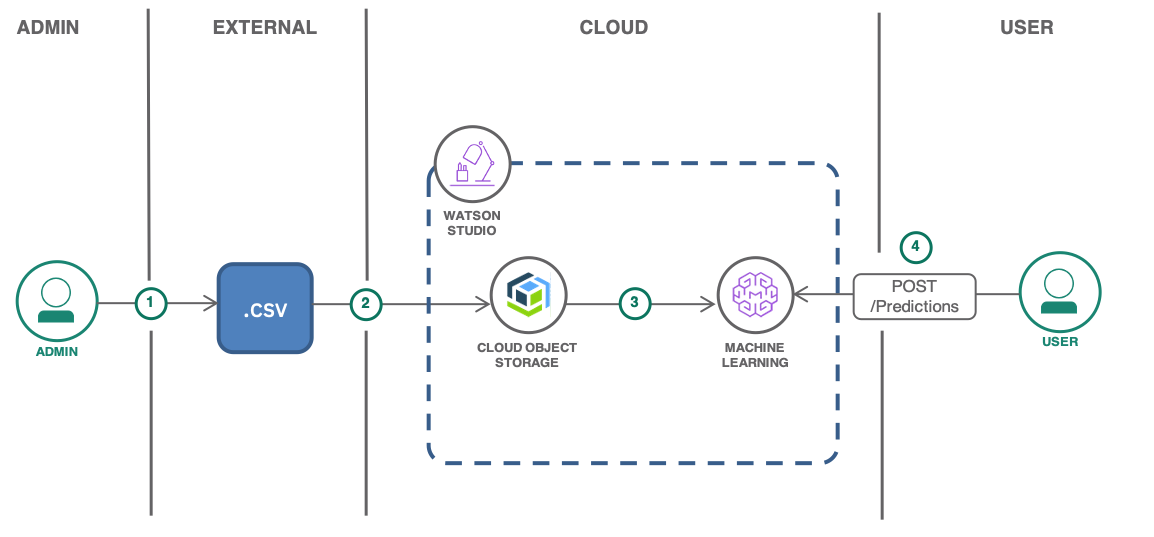
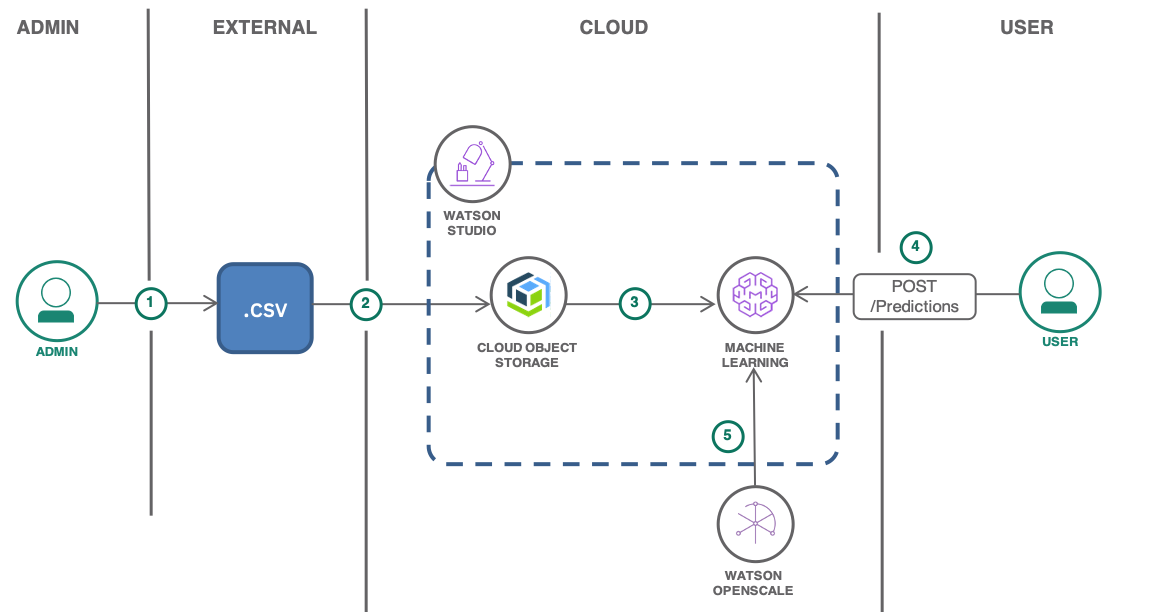
More updates

diff --git a/create-deploy-retrain-machine-learning-model.md b/create-deploy-retrain-machine-learning-model.md
@@ -17,7 +17,7 @@ lasttested: "2020-04-21"
 {:tip: .tip}
 {:pre: .pre}
 
-# Build, deploy and test a predictive machine learning model
+# Build, deploy, test, retrain and monitor a machine learning model
 {: #create-deploy-retrain-machine-learning-model}
 This tutorial walks you through the process of building a predictive machine learning model, deploying the generated model as an API to be used in applications and testing the model.Also, monitor the deployed model and retrain the model with feedback data. All of this happening in an integrated and unified self-service experience on {{site.data.keyword.Bluemix_notm}}.
 {:shortdesc}
@@ -46,7 +46,7 @@ This tutorial uses the following runtimes and services:
 * [{{site.data.keyword.DSX_short}}](https://{DomainName}/catalog/services/data-science-experience)
 * [{{site.data.keyword.cos_full_notm}}](https://{DomainName}/catalog/infrastructure/cloud-object-storage)
 * [{{site.data.keyword.pm_full}}](https://{DomainName}/catalog/services/machine-learning)
-* [{{site.data.keyword.aios_full}} service](https://{DomainName}/catalog/services/watson-openscale)
+* [{{site.data.keyword.aios_full}}](https://{DomainName}/catalog/services/watson-openscale)
 
 ## Architecture
 {: #architecture}
@@ -56,7 +56,7 @@ This tutorial uses the following runtimes and services:
 2. The uploaded CSV file is stored in {{site.data.keyword.cos_full_notm}} service as a dataset.
 3. The dataset is then used to build and deploy a machine learning model. The deployed model is exposed as an API (scoring-endpoint).
 4. The user makes an API call to predict the outcome with the test data.
-5. The deployed machine learning model is monitored for quality, accuracy and other key parameters.
+5. The deployed machine learning model is monitored for quality, accuracy and other key parameters with the test data.
 
 ## Import data to a project
 {: #import_data_project}
@@ -87,7 +87,7 @@ You can create a project to add data and open a data asset in the data refiner f
 ### Import data
 {: #import_data}
 
-As mentioned earlier, you will be using the **Iris data set**. The Iris dataset was used in R.A. Fisher's classic 1936 paper, [The Use of Multiple Measurements in Taxonomic Problems](http://rcs.chemometrics.ru/Tutorials/classification/Fisher.pdf), and can also be found on the [UCI Machine Learning Repository](http://archive.ics.uci.edu/ml/). This small dataset is often used for testing out machine learning algorithms and visualizations. The aim is to classify Iris flowers among three species (Setosa, Versicolor or Virginica) from measurements of length and width of sepals and petals. The iris data set contains 3 classes of 50 instances each, where each class refers to a type of iris plant.
+As mentioned earlier, you will be using the **Iris data set**. The Iris dataset was used in R.A. Fisher's classic 1936 paper, [The Use of Multiple Measurements in Taxonomic Problems](http://rcs.chemometrics.ru/Tutorials/classification/Fisher.pdf), and can also be found on the [UCI {{site.data.keyword.pm_short}} Repository](http://archive.ics.uci.edu/ml/). This small dataset is often used for testing out machine learning algorithms and visualizations. The aim is to classify Iris flowers among three species (Setosa, Versicolor or Virginica) from measurements of length and width of sepals and petals. The iris data set contains 3 classes of 50 instances each, where each class refers to a type of iris plant.
 ![](images/solution22-build-machine-learning-model/iris_machinelearning.png)
 
 **Download** [iris_initial.csv](https://ibm.box.com/shared/static/nnxx7ozfvpdkjv17x4katwu385cm6k5d.csv) which consists of 40 instances of each species.
@@ -100,7 +100,7 @@ As mentioned earlier, you will be using the **Iris data set**. The Iris dataset 
 {:#associate_services}
 
 1. In the top navigation menu, click on `iris-project`, click on **Settings** in the top bar and scroll to **Associated Services** section.
-2. Click **Add Service** and choose **Watson**.
+2. Click **Add Service** and choose **{{site.data.keyword.watson}}**.
 3. Click **Add** on **{{site.data.keyword.pm_short}}** tile.
 4. If you have an existing **{{site.data.keyword.pm_short}}** service instance, select it otherwise continue with the following steps to create a new instance.
    1. Choose the **Lite** plan and click **Create**.
@@ -149,7 +149,7 @@ In this section, you will deploy the saved model and expose the deployed model a
 1. Under the created model, click on **Deployments** and then click **Add Deployment**.
 1. Add a **name** -`iris_deployment`, choose **Web Service** as your deployment type and add an optional description.
 2. Click **Save**. Once the status changes to **Ready** (You may have to refresh the page), click on the **name** of the new web service. Under **Implementation** tab of the deployment, You can see the scoring End-point, code snippets in various programming languages, and API Specification. **Copy and save** the scoring End-point in a notepad for future reference.
-3. In a browser, launch the [{{site.data.keyword.Bluemix_notm}} Shell](https://{DomainName}/shell) and export the scoring End-point to be used in subsequent requests. DON'T CLOSE THIS WINDOW/TAB.
+3. In a browser, launch the [{{site.data.keyword.Bluemix_notm}} Shell](https://{DomainName}/shell) and export the scoring End-point to be used in subsequent requests. **_Make sure you don't close this window/tab_**.
    ```sh
    export SCORING_ENDPOINT='<SCORING_ENDPOINT_FROM_ABOVE_STEP>'
    ```
@@ -157,7 +157,7 @@ In this section, you will deploy the saved model and expose the deployed model a
 
    {{site.data.keyword.Bluemix_notm}} Shell is a cloud-based shell workspace that you can access through your browser. It's preconfigured with the full {{site.data.keyword.Bluemix_notm}} CLI and tons of plug-ins and tools that you can use to manage apps, resources, and infrastructure.
    {:tip}
-4. To use the Watson Machine Learning REST API, you need to obtain an [{{site.data.keyword.Bluemix_notm}} Identity and Access Management (IAM) token. Run the below command
+4. To use the {{site.data.keyword.watson}} {{site.data.keyword.pm_short}} REST API, you need to obtain an [{{site.data.keyword.Bluemix_notm}} Identity and Access Management (IAM) token. Run the below command
    ```sh
    ibmcloud iam oauth-tokens --output JSON | jq -r .iam_token
    ```
@@ -168,14 +168,14 @@ In this section, you will deploy the saved model and expose the deployed model a
    ```
    {:pre}
 
-6. For `ML_INSTANCE_ID`, run the below command in the Cloud Shell by passing the name of the machine learning service key
+6. For `ML_INSTANCE_ID`, run the below command in the Cloud Shell by passing the name of the machine learning service key. **_You will use the ML service credentials later in the tutorial_**
    ```sh
    ibmcloud resource service-key wdp-writer
    ```
    {:pre}
 7. Export the returned `instance_id` as `ML_INSTANCE_ID` for use in subsequent API requests
    ```sh
-   export ML_INSTANCE_ID='<ML_SERVICE_INSTANCE_GUID>'
+   export ML_INSTANCE_ID='<ML_SERVICE_INSTANCE_ID>'
    ```
    {:pre}
 
@@ -224,10 +224,10 @@ In this section, you will create a ML model using the same iris dataset for expl
    1. Select **From URL** and give **iris_notebook** as the name
    2. Under **Notebook URL**, enter `https://github.com/IBM-Cloud/ml-iris-classification/blob/master/classify_iris.ipynb`
    3. Click **Create**
-3. Once the notebook is created, scroll to **Set up the WML instance** section of the notebook and provide the {{site.data.keyword.aios_full_notm}} service credentials.
+3. Once the notebook is created, scroll to **Set up the WML instance** section of the notebook and provide the {{site.data.keyword.aios_full_notm}} service credentials from the Cloud shell.
 4. In the top menu of the notebook, Click **Cell** and then click **Run All**.
 5. This should create a ML model and also a deployment under `iris_project`.
-6. If you scroll to **Test the model** section, you can see that the accuracy score of the the model is around 0.9-0.9333. DON'T CLOSE THIS WINDOW/TAB.
+6. If you scroll to **Test the model** section, you can see that the accuracy score of the the model is around 0.9-0.9333. **_Make sure you don't close this window/tab_**.
 
 Let's improve the quality and accuracy of the model in the next section.
 
@@ -243,9 +243,9 @@ In this section, you will create a {{site.data.keyword.aios_full_notm}} service 
 2. Once the service is provisioned, Click **Manage** on the left pane and click **Launch Application**.
 3. Click on **Manual setup** to manually setup the monitors.
 4. Choose **Free lite plan database** as your Database type and click **Save**. This is to store your model transactions and model evaluation results.
-5. Click **Machine learning providers**
+5. Click **{{site.data.keyword.pm_short}} providers**
    1. Click on **Add machine learning provider** and click the edit icon on the **connection** tile
-   2. Select **Watson Machine Learning** as your service provider
+   2. Select **{{site.data.keyword.watson}} {{site.data.keyword.pm_short}}** as your service provider
       - In the dropdown, select the {{site.data.keyword.pm_full}} service you created above.
       - Leave the Environment type to **Pre-production**
       - Click **Save**
@@ -292,13 +292,13 @@ In this section, you will evaluate the model by uploading a `iris_retrain.csv` f
 ## Remove resources
 {:removeresources}
 
-1. Navigate to [{{site.data.keyword.Bluemix_short}} Resource List](https://{DomainName}/resources/) > choose the Location, Org and Space where you have created the services.
-2. Delete the respective {{site.data.keyword.DSX_short}}, {{site.data.keyword.pm_short}}, {{site.data.keyword.dashdbshort}} and {{site.data.keyword.cos_short}} services which you created for this tutorial.
+1. Navigate to [{{site.data.keyword.Bluemix_short}} Resource List](https://{DomainName}/resources/).
+2. Delete the services which you created for this tutorial.
 
 ## Related content
 {:related}
 
-- [Watson Studio Overview](https://dataplatform.ibm.com/docs/content/getting-started/overview-ws.html?audience=wdp&context=wdp)
-- [Detect Anomalies using Machine Learning](https://{DomainName}/docs/tutorials?topic=solution-tutorials-gather-visualize-analyze-iot-data#data_experiencee)
+- [{{site.data.keyword.watson}} Studio Overview](https://dataplatform.ibm.com/docs/content/getting-started/overview-ws.html?audience=wdp&context=wdp)
+- [Detect Anomalies using {{site.data.keyword.pm_short}}](https://{DomainName}/docs/tutorials?topic=solution-tutorials-gather-visualize-analyze-iot-data#data_experiencee)
 - [Automatic model creation](https://datascience.ibm.com/docs/content/analyze-data/ml-model-builder.html?linkInPage=true)
 - [Machine learning & AI](https://dataplatform.ibm.com/docs/content/analyze-data/wml-ai.html?audience=wdp&context=wdp)
